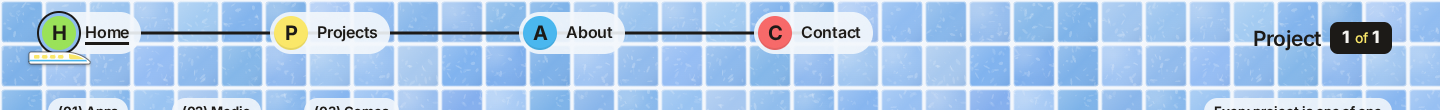
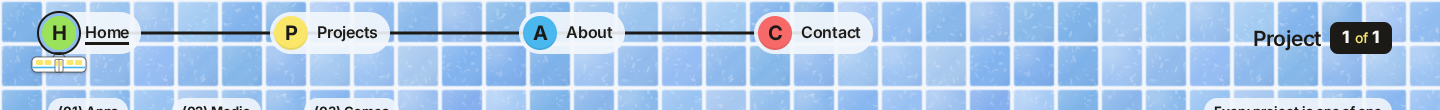
Nav: symmetric tram car (🚋-style), remove direction flip

Changed region(s): [[0.0, 0.4636, 0.0625, 0.6818]]

diff --git a/404.html b/404.html
@@ -21,7 +21,7 @@
   <link rel="preconnect" href="https://fonts.gstatic.com" crossorigin>
   <link href="https://fonts.googleapis.com/css2?family=Inter:wght@400;500;600;700;800&display=swap" rel="stylesheet">
   <link rel="stylesheet" href="/project-1-of-1/css/styles.css">
-  <meta name="build" content="nav-train-v2">
+  <meta name="build" content="nav-train-v3">
   <script>document.documentElement.classList.add("js");</script>
 </head>
 <body>
@@ -38,7 +38,7 @@
         <li><a href="/project-1-of-1/projects.html"><span class="bullet bullet--yellow" aria-hidden="true">P</span><span class="stop"><b>Projects</b><small>3 lots on view</small></span></a></li>
         <li><a href="/project-1-of-1/about.html"><span class="bullet bullet--sky" aria-hidden="true">A</span><span class="stop"><b>About</b><small>The idea</small></span></a></li>
         <li><a href="/project-1-of-1/contact.html"><span class="bullet bullet--coral" aria-hidden="true">C</span><span class="stop"><b>Contact</b><small>Say hello</small></span></a></li>
-        <li class="train-li" aria-hidden="true"><span class="train"><svg viewBox="0 0 66 20" width="66" height="20"><path d="M3 6.5Q3 4 5.5 4H38C50 4 60 9 64 13.6Q64.6 16 62 16H5.5Q3 16 3 13.5Z" fill="#fff" stroke="#1c1a17" stroke-opacity=".55" stroke-width="1"/><path d="M43 6.2C50 6.4 55 9 58 11.2H45.5Q43 11.2 43 9Z" fill="#fbe86a"/><g fill="#fbe86a"><rect x="8" y="7" width="5.5" height="3.6" rx="1.2"/><rect x="16" y="7" width="5.5" height="3.6" rx="1.2"/><rect x="24" y="7" width="5.5" height="3.6" rx="1.2"/><rect x="32" y="7" width="5.5" height="3.6" rx="1.2"/></g><path d="M3.4 12.6H60.5" stroke="#4ab8f0" stroke-width="1.6"/></svg></span></li>
+        <li class="train-li" aria-hidden="true"><span class="train"><svg viewBox="0 0 60 24" width="60" height="24"><path d="M24 7L27.5 2.5H32.5L36 7" fill="none" stroke="#1c1a17" stroke-opacity=".55" stroke-width="1" stroke-linejoin="round"/><path d="M25.5 2.5H34.5" stroke="#1c1a17" stroke-opacity=".55" stroke-width="1" stroke-linecap="round"/><rect x="3" y="7" width="54" height="15" rx="4.5" fill="#fff" stroke="#1c1a17" stroke-opacity=".55" stroke-width="1"/><path d="M3.5 17.5H56.5" stroke="#4ab8f0" stroke-width="1.6"/><g fill="#fbe86a"><rect x="7" y="10" width="7" height="5" rx="1.3"/><rect x="15.5" y="10" width="7" height="5" rx="1.3"/><rect x="37.5" y="10" width="7" height="5" rx="1.3"/><rect x="46" y="10" width="7" height="5" rx="1.3"/></g><rect x="26" y="9.5" width="8" height="12.5" rx="1.2" fill="#fff" stroke="#1c1a17" stroke-opacity=".55" stroke-width="1"/><path d="M30 9.5V22" stroke="#1c1a17" stroke-opacity=".55" stroke-width="1"/><g fill="#fbe86a"><rect x="27" y="10.8" width="2.2" height="5" rx=".7"/><rect x="30.8" y="10.8" width="2.2" height="5" rx=".7"/></g></svg></span></li>
       </ul>
     </nav>
   </header>

diff --git a/projects/europe-tracker.html b/projects/europe-tracker.html
@@ -21,7 +21,7 @@
   <link rel="preconnect" href="https://fonts.gstatic.com" crossorigin>
   <link href="https://fonts.googleapis.com/css2?family=Inter:wght@400;500;600;700;800&display=swap" rel="stylesheet">
   <link rel="stylesheet" href="../css/styles.css">
-  <meta name="build" content="nav-train-v2">
+  <meta name="build" content="nav-train-v3">
   <script>document.documentElement.classList.add("js");</script>
 </head>
 <body>
@@ -38,7 +38,7 @@
         <li><a href="../projects.html" aria-current="page"><span class="bullet bullet--yellow" aria-hidden="true">P</span><span class="stop"><b>Projects</b><small>3 lots on view</small></span></a></li>
         <li><a href="../about.html"><span class="bullet bullet--sky" aria-hidden="true">A</span><span class="stop"><b>About</b><small>The idea</small></span></a></li>
         <li><a href="../contact.html"><span class="bullet bullet--coral" aria-hidden="true">C</span><span class="stop"><b>Contact</b><small>Say hello</small></span></a></li>
-        <li class="train-li" aria-hidden="true"><span class="train"><svg viewBox="0 0 66 20" width="66" height="20"><path d="M3 6.5Q3 4 5.5 4H38C50 4 60 9 64 13.6Q64.6 16 62 16H5.5Q3 16 3 13.5Z" fill="#fff" stroke="#1c1a17" stroke-opacity=".55" stroke-width="1"/><path d="M43 6.2C50 6.4 55 9 58 11.2H45.5Q43 11.2 43 9Z" fill="#fbe86a"/><g fill="#fbe86a"><rect x="8" y="7" width="5.5" height="3.6" rx="1.2"/><rect x="16" y="7" width="5.5" height="3.6" rx="1.2"/><rect x="24" y="7" width="5.5" height="3.6" rx="1.2"/><rect x="32" y="7" width="5.5" height="3.6" rx="1.2"/></g><path d="M3.4 12.6H60.5" stroke="#4ab8f0" stroke-width="1.6"/></svg></span></li>
+        <li class="train-li" aria-hidden="true"><span class="train"><svg viewBox="0 0 60 24" width="60" height="24"><path d="M24 7L27.5 2.5H32.5L36 7" fill="none" stroke="#1c1a17" stroke-opacity=".55" stroke-width="1" stroke-linejoin="round"/><path d="M25.5 2.5H34.5" stroke="#1c1a17" stroke-opacity=".55" stroke-width="1" stroke-linecap="round"/><rect x="3" y="7" width="54" height="15" rx="4.5" fill="#fff" stroke="#1c1a17" stroke-opacity=".55" stroke-width="1"/><path d="M3.5 17.5H56.5" stroke="#4ab8f0" stroke-width="1.6"/><g fill="#fbe86a"><rect x="7" y="10" width="7" height="5" rx="1.3"/><rect x="15.5" y="10" width="7" height="5" rx="1.3"/><rect x="37.5" y="10" width="7" height="5" rx="1.3"/><rect x="46" y="10" width="7" height="5" rx="1.3"/></g><rect x="26" y="9.5" width="8" height="12.5" rx="1.2" fill="#fff" stroke="#1c1a17" stroke-opacity=".55" stroke-width="1"/><path d="M30 9.5V22" stroke="#1c1a17" stroke-opacity=".55" stroke-width="1"/><g fill="#fbe86a"><rect x="27" y="10.8" width="2.2" height="5" rx=".7"/><rect x="30.8" y="10.8" width="2.2" height="5" rx=".7"/></g></svg></span></li>
       </ul>
     </nav>
   </header>

diff --git a/projects/morning-news.html b/projects/morning-news.html
@@ -21,7 +21,7 @@
   <link rel="preconnect" href="https://fonts.gstatic.com" crossorigin>
   <link href="https://fonts.googleapis.com/css2?family=Inter:wght@400;500;600;700;800&display=swap" rel="stylesheet">
   <link rel="stylesheet" href="../css/styles.css">
-  <meta name="build" content="nav-train-v2">
+  <meta name="build" content="nav-train-v3">
   <script>document.documentElement.classList.add("js");</script>
 </head>
 <body>
@@ -38,7 +38,7 @@
         <li><a href="../projects.html" aria-current="page"><span class="bullet bullet--yellow" aria-hidden="true">P</span><span class="stop"><b>Projects</b><small>3 lots on view</small></span></a></li>
         <li><a href="../about.html"><span class="bullet bullet--sky" aria-hidden="true">A</span><span class="stop"><b>About</b><small>The idea</small></span></a></li>
         <li><a href="../contact.html"><span class="bullet bullet--coral" aria-hidden="true">C</span><span class="stop"><b>Contact</b><small>Say hello</small></span></a></li>
-        <li class="train-li" aria-hidden="true"><span class="train"><svg viewBox="0 0 66 20" width="66" height="20"><path d="M3 6.5Q3 4 5.5 4H38C50 4 60 9 64 13.6Q64.6 16 62 16H5.5Q3 16 3 13.5Z" fill="#fff" stroke="#1c1a17" stroke-opacity=".55" stroke-width="1"/><path d="M43 6.2C50 6.4 55 9 58 11.2H45.5Q43 11.2 43 9Z" fill="#fbe86a"/><g fill="#fbe86a"><rect x="8" y="7" width="5.5" height="3.6" rx="1.2"/><rect x="16" y="7" width="5.5" height="3.6" rx="1.2"/><rect x="24" y="7" width="5.5" height="3.6" rx="1.2"/><rect x="32" y="7" width="5.5" height="3.6" rx="1.2"/></g><path d="M3.4 12.6H60.5" stroke="#4ab8f0" stroke-width="1.6"/></svg></span></li>
+        <li class="train-li" aria-hidden="true"><span class="train"><svg viewBox="0 0 60 24" width="60" height="24"><path d="M24 7L27.5 2.5H32.5L36 7" fill="none" stroke="#1c1a17" stroke-opacity=".55" stroke-width="1" stroke-linejoin="round"/><path d="M25.5 2.5H34.5" stroke="#1c1a17" stroke-opacity=".55" stroke-width="1" stroke-linecap="round"/><rect x="3" y="7" width="54" height="15" rx="4.5" fill="#fff" stroke="#1c1a17" stroke-opacity=".55" stroke-width="1"/><path d="M3.5 17.5H56.5" stroke="#4ab8f0" stroke-width="1.6"/><g fill="#fbe86a"><rect x="7" y="10" width="7" height="5" rx="1.3"/><rect x="15.5" y="10" width="7" height="5" rx="1.3"/><rect x="37.5" y="10" width="7" height="5" rx="1.3"/><rect x="46" y="10" width="7" height="5" rx="1.3"/></g><rect x="26" y="9.5" width="8" height="12.5" rx="1.2" fill="#fff" stroke="#1c1a17" stroke-opacity=".55" stroke-width="1"/><path d="M30 9.5V22" stroke="#1c1a17" stroke-opacity=".55" stroke-width="1"/><g fill="#fbe86a"><rect x="27" y="10.8" width="2.2" height="5" rx=".7"/><rect x="30.8" y="10.8" width="2.2" height="5" rx=".7"/></g></svg></span></li>
       </ul>
     </nav>
   </header>

diff --git a/projects/pixel-game.html b/projects/pixel-game.html
@@ -21,7 +21,7 @@
   <link rel="preconnect" href="https://fonts.gstatic.com" crossorigin>
   <link href="https://fonts.googleapis.com/css2?family=Inter:wght@400;500;600;700;800&display=swap" rel="stylesheet">
   <link rel="stylesheet" href="../css/styles.css">
-  <meta name="build" content="nav-train-v2">
+  <meta name="build" content="nav-train-v3">
   <script>document.documentElement.classList.add("js");</script>
 </head>
 <body>
@@ -38,7 +38,7 @@
         <li><a href="../projects.html" aria-current="page"><span class="bullet bullet--yellow" aria-hidden="true">P</span><span class="stop"><b>Projects</b><small>3 lots on view</small></span></a></li>
         <li><a href="../about.html"><span class="bullet bullet--sky" aria-hidden="true">A</span><span class="stop"><b>About</b><small>The idea</small></span></a></li>
         <li><a href="../contact.html"><span class="bullet bullet--coral" aria-hidden="true">C</span><span class="stop"><b>Contact</b><small>Say hello</small></span></a></li>
-        <li class="train-li" aria-hidden="true"><span class="train"><svg viewBox="0 0 66 20" width="66" height="20"><path d="M3 6.5Q3 4 5.5 4H38C50 4 60 9 64 13.6Q64.6 16 62 16H5.5Q3 16 3 13.5Z" fill="#fff" stroke="#1c1a17" stroke-opacity=".55" stroke-width="1"/><path d="M43 6.2C50 6.4 55 9 58 11.2H45.5Q43 11.2 43 9Z" fill="#fbe86a"/><g fill="#fbe86a"><rect x="8" y="7" width="5.5" height="3.6" rx="1.2"/><rect x="16" y="7" width="5.5" height="3.6" rx="1.2"/><rect x="24" y="7" width="5.5" height="3.6" rx="1.2"/><rect x="32" y="7" width="5.5" height="3.6" rx="1.2"/></g><path d="M3.4 12.6H60.5" stroke="#4ab8f0" stroke-width="1.6"/></svg></span></li>
+        <li class="train-li" aria-hidden="true"><span class="train"><svg viewBox="0 0 60 24" width="60" height="24"><path d="M24 7L27.5 2.5H32.5L36 7" fill="none" stroke="#1c1a17" stroke-opacity=".55" stroke-width="1" stroke-linejoin="round"/><path d="M25.5 2.5H34.5" stroke="#1c1a17" stroke-opacity=".55" stroke-width="1" stroke-linecap="round"/><rect x="3" y="7" width="54" height="15" rx="4.5" fill="#fff" stroke="#1c1a17" stroke-opacity=".55" stroke-width="1"/><path d="M3.5 17.5H56.5" stroke="#4ab8f0" stroke-width="1.6"/><g fill="#fbe86a"><rect x="7" y="10" width="7" height="5" rx="1.3"/><rect x="15.5" y="10" width="7" height="5" rx="1.3"/><rect x="37.5" y="10" width="7" height="5" rx="1.3"/><rect x="46" y="10" width="7" height="5" rx="1.3"/></g><rect x="26" y="9.5" width="8" height="12.5" rx="1.2" fill="#fff" stroke="#1c1a17" stroke-opacity=".55" stroke-width="1"/><path d="M30 9.5V22" stroke="#1c1a17" stroke-opacity=".55" stroke-width="1"/><g fill="#fbe86a"><rect x="27" y="10.8" width="2.2" height="5" rx=".7"/><rect x="30.8" y="10.8" width="2.2" height="5" rx=".7"/></g></svg></span></li>
       </ul>
     </nav>
   </header>

diff --git a/about.html b/about.html
@@ -21,7 +21,7 @@
   <link rel="preconnect" href="https://fonts.gstatic.com" crossorigin>
   <link href="https://fonts.googleapis.com/css2?family=Inter:wght@400;500;600;700;800&display=swap" rel="stylesheet">
   <link rel="stylesheet" href="css/styles.css">
-  <meta name="build" content="nav-train-v2">
+  <meta name="build" content="nav-train-v3">
   <script>document.documentElement.classList.add("js");</script>
 </head>
 <body>
@@ -38,7 +38,7 @@
         <li><a href="projects.html"><span class="bullet bullet--yellow" aria-hidden="true">P</span><span class="stop"><b>Projects</b><small>3 lots on view</small></span></a></li>
         <li><a href="about.html" aria-current="page"><span class="bullet bullet--sky" aria-hidden="true">A</span><span class="stop"><b>About</b><small>The idea</small></span></a></li>
         <li><a href="contact.html"><span class="bullet bullet--coral" aria-hidden="true">C</span><span class="stop"><b>Contact</b><small>Say hello</small></span></a></li>
-        <li class="train-li" aria-hidden="true"><span class="train"><svg viewBox="0 0 66 20" width="66" height="20"><path d="M3 6.5Q3 4 5.5 4H38C50 4 60 9 64 13.6Q64.6 16 62 16H5.5Q3 16 3 13.5Z" fill="#fff" stroke="#1c1a17" stroke-opacity=".55" stroke-width="1"/><path d="M43 6.2C50 6.4 55 9 58 11.2H45.5Q43 11.2 43 9Z" fill="#fbe86a"/><g fill="#fbe86a"><rect x="8" y="7" width="5.5" height="3.6" rx="1.2"/><rect x="16" y="7" width="5.5" height="3.6" rx="1.2"/><rect x="24" y="7" width="5.5" height="3.6" rx="1.2"/><rect x="32" y="7" width="5.5" height="3.6" rx="1.2"/></g><path d="M3.4 12.6H60.5" stroke="#4ab8f0" stroke-width="1.6"/></svg></span></li>
+        <li class="train-li" aria-hidden="true"><span class="train"><svg viewBox="0 0 60 24" width="60" height="24"><path d="M24 7L27.5 2.5H32.5L36 7" fill="none" stroke="#1c1a17" stroke-opacity=".55" stroke-width="1" stroke-linejoin="round"/><path d="M25.5 2.5H34.5" stroke="#1c1a17" stroke-opacity=".55" stroke-width="1" stroke-linecap="round"/><rect x="3" y="7" width="54" height="15" rx="4.5" fill="#fff" stroke="#1c1a17" stroke-opacity=".55" stroke-width="1"/><path d="M3.5 17.5H56.5" stroke="#4ab8f0" stroke-width="1.6"/><g fill="#fbe86a"><rect x="7" y="10" width="7" height="5" rx="1.3"/><rect x="15.5" y="10" width="7" height="5" rx="1.3"/><rect x="37.5" y="10" width="7" height="5" rx="1.3"/><rect x="46" y="10" width="7" height="5" rx="1.3"/></g><rect x="26" y="9.5" width="8" height="12.5" rx="1.2" fill="#fff" stroke="#1c1a17" stroke-opacity=".55" stroke-width="1"/><path d="M30 9.5V22" stroke="#1c1a17" stroke-opacity=".55" stroke-width="1"/><g fill="#fbe86a"><rect x="27" y="10.8" width="2.2" height="5" rx=".7"/><rect x="30.8" y="10.8" width="2.2" height="5" rx=".7"/></g></svg></span></li>
       </ul>
     </nav>
   </header>

diff --git a/contact.html b/contact.html
@@ -21,7 +21,7 @@
   <link rel="preconnect" href="https://fonts.gstatic.com" crossorigin>
   <link href="https://fonts.googleapis.com/css2?family=Inter:wght@400;500;600;700;800&display=swap" rel="stylesheet">
   <link rel="stylesheet" href="css/styles.css">
-  <meta name="build" content="nav-train-v2">
+  <meta name="build" content="nav-train-v3">
   <script>document.documentElement.classList.add("js");</script>
 </head>
 <body>
@@ -38,7 +38,7 @@
         <li><a href="projects.html"><span class="bullet bullet--yellow" aria-hidden="true">P</span><span class="stop"><b>Projects</b><small>3 lots on view</small></span></a></li>
         <li><a href="about.html"><span class="bullet bullet--sky" aria-hidden="true">A</span><span class="stop"><b>About</b><small>The idea</small></span></a></li>
         <li><a href="contact.html" aria-current="page"><span class="bullet bullet--coral" aria-hidden="true">C</span><span class="stop"><b>Contact</b><small>Say hello</small></span></a></li>
-        <li class="train-li" aria-hidden="true"><span class="train"><svg viewBox="0 0 66 20" width="66" height="20"><path d="M3 6.5Q3 4 5.5 4H38C50 4 60 9 64 13.6Q64.6 16 62 16H5.5Q3 16 3 13.5Z" fill="#fff" stroke="#1c1a17" stroke-opacity=".55" stroke-width="1"/><path d="M43 6.2C50 6.4 55 9 58 11.2H45.5Q43 11.2 43 9Z" fill="#fbe86a"/><g fill="#fbe86a"><rect x="8" y="7" width="5.5" height="3.6" rx="1.2"/><rect x="16" y="7" width="5.5" height="3.6" rx="1.2"/><rect x="24" y="7" width="5.5" height="3.6" rx="1.2"/><rect x="32" y="7" width="5.5" height="3.6" rx="1.2"/></g><path d="M3.4 12.6H60.5" stroke="#4ab8f0" stroke-width="1.6"/></svg></span></li>
+        <li class="train-li" aria-hidden="true"><span class="train"><svg viewBox="0 0 60 24" width="60" height="24"><path d="M24 7L27.5 2.5H32.5L36 7" fill="none" stroke="#1c1a17" stroke-opacity=".55" stroke-width="1" stroke-linejoin="round"/><path d="M25.5 2.5H34.5" stroke="#1c1a17" stroke-opacity=".55" stroke-width="1" stroke-linecap="round"/><rect x="3" y="7" width="54" height="15" rx="4.5" fill="#fff" stroke="#1c1a17" stroke-opacity=".55" stroke-width="1"/><path d="M3.5 17.5H56.5" stroke="#4ab8f0" stroke-width="1.6"/><g fill="#fbe86a"><rect x="7" y="10" width="7" height="5" rx="1.3"/><rect x="15.5" y="10" width="7" height="5" rx="1.3"/><rect x="37.5" y="10" width="7" height="5" rx="1.3"/><rect x="46" y="10" width="7" height="5" rx="1.3"/></g><rect x="26" y="9.5" width="8" height="12.5" rx="1.2" fill="#fff" stroke="#1c1a17" stroke-opacity=".55" stroke-width="1"/><path d="M30 9.5V22" stroke="#1c1a17" stroke-opacity=".55" stroke-width="1"/><g fill="#fbe86a"><rect x="27" y="10.8" width="2.2" height="5" rx=".7"/><rect x="30.8" y="10.8" width="2.2" height="5" rx=".7"/></g></svg></span></li>
       </ul>
     </nav>
   </header>

diff --git a/projects.html b/projects.html
@@ -21,7 +21,7 @@
   <link rel="preconnect" href="https://fonts.gstatic.com" crossorigin>
   <link href="https://fonts.googleapis.com/css2?family=Inter:wght@400;500;600;700;800&display=swap" rel="stylesheet">
   <link rel="stylesheet" href="css/styles.css">
-  <meta name="build" content="nav-train-v2">
+  <meta name="build" content="nav-train-v3">
   <script>document.documentElement.classList.add("js");</script>
 </head>
 <body>
@@ -38,7 +38,7 @@
         <li><a href="projects.html" aria-current="page"><span class="bullet bullet--yellow" aria-hidden="true">P</span><span class="stop"><b>Projects</b><small>3 lots on view</small></span></a></li>
         <li><a href="about.html"><span class="bullet bullet--sky" aria-hidden="true">A</span><span class="stop"><b>About</b><small>The idea</small></span></a></li>
         <li><a href="contact.html"><span class="bullet bullet--coral" aria-hidden="true">C</span><span class="stop"><b>Contact</b><small>Say hello</small></span></a></li>
-        <li class="train-li" aria-hidden="true"><span class="train"><svg viewBox="0 0 66 20" width="66" height="20"><path d="M3 6.5Q3 4 5.5 4H38C50 4 60 9 64 13.6Q64.6 16 62 16H5.5Q3 16 3 13.5Z" fill="#fff" stroke="#1c1a17" stroke-opacity=".55" stroke-width="1"/><path d="M43 6.2C50 6.4 55 9 58 11.2H45.5Q43 11.2 43 9Z" fill="#fbe86a"/><g fill="#fbe86a"><rect x="8" y="7" width="5.5" height="3.6" rx="1.2"/><rect x="16" y="7" width="5.5" height="3.6" rx="1.2"/><rect x="24" y="7" width="5.5" height="3.6" rx="1.2"/><rect x="32" y="7" width="5.5" height="3.6" rx="1.2"/></g><path d="M3.4 12.6H60.5" stroke="#4ab8f0" stroke-width="1.6"/></svg></span></li>
+        <li class="train-li" aria-hidden="true"><span class="train"><svg viewBox="0 0 60 24" width="60" height="24"><path d="M24 7L27.5 2.5H32.5L36 7" fill="none" stroke="#1c1a17" stroke-opacity=".55" stroke-width="1" stroke-linejoin="round"/><path d="M25.5 2.5H34.5" stroke="#1c1a17" stroke-opacity=".55" stroke-width="1" stroke-linecap="round"/><rect x="3" y="7" width="54" height="15" rx="4.5" fill="#fff" stroke="#1c1a17" stroke-opacity=".55" stroke-width="1"/><path d="M3.5 17.5H56.5" stroke="#4ab8f0" stroke-width="1.6"/><g fill="#fbe86a"><rect x="7" y="10" width="7" height="5" rx="1.3"/><rect x="15.5" y="10" width="7" height="5" rx="1.3"/><rect x="37.5" y="10" width="7" height="5" rx="1.3"/><rect x="46" y="10" width="7" height="5" rx="1.3"/></g><rect x="26" y="9.5" width="8" height="12.5" rx="1.2" fill="#fff" stroke="#1c1a17" stroke-opacity=".55" stroke-width="1"/><path d="M30 9.5V22" stroke="#1c1a17" stroke-opacity=".55" stroke-width="1"/><g fill="#fbe86a"><rect x="27" y="10.8" width="2.2" height="5" rx=".7"/><rect x="30.8" y="10.8" width="2.2" height="5" rx=".7"/></g></svg></span></li>
       </ul>
     </nav>
   </header>

diff --git a/index.html b/index.html
@@ -21,7 +21,7 @@
   <link rel="preconnect" href="https://fonts.gstatic.com" crossorigin>
   <link href="https://fonts.googleapis.com/css2?family=Inter:wght@400;500;600;700;800&display=swap" rel="stylesheet">
   <link rel="stylesheet" href="css/styles.css">
-  <meta name="build" content="nav-train-v2">
+  <meta name="build" content="nav-train-v3">
   <script>document.documentElement.classList.add("js");</script>
 </head>
 <body>
@@ -38,7 +38,7 @@
         <li><a href="projects.html"><span class="bullet bullet--yellow" aria-hidden="true">P</span><span class="stop"><b>Projects</b><small>3 lots on view</small></span></a></li>
         <li><a href="about.html"><span class="bullet bullet--sky" aria-hidden="true">A</span><span class="stop"><b>About</b><small>The idea</small></span></a></li>
         <li><a href="contact.html"><span class="bullet bullet--coral" aria-hidden="true">C</span><span class="stop"><b>Contact</b><small>Say hello</small></span></a></li>
-        <li class="train-li" aria-hidden="true"><span class="train"><svg viewBox="0 0 66 20" width="66" height="20"><path d="M3 6.5Q3 4 5.5 4H38C50 4 60 9 64 13.6Q64.6 16 62 16H5.5Q3 16 3 13.5Z" fill="#fff" stroke="#1c1a17" stroke-opacity=".55" stroke-width="1"/><path d="M43 6.2C50 6.4 55 9 58 11.2H45.5Q43 11.2 43 9Z" fill="#fbe86a"/><g fill="#fbe86a"><rect x="8" y="7" width="5.5" height="3.6" rx="1.2"/><rect x="16" y="7" width="5.5" height="3.6" rx="1.2"/><rect x="24" y="7" width="5.5" height="3.6" rx="1.2"/><rect x="32" y="7" width="5.5" height="3.6" rx="1.2"/></g><path d="M3.4 12.6H60.5" stroke="#4ab8f0" stroke-width="1.6"/></svg></span></li>
+        <li class="train-li" aria-hidden="true"><span class="train"><svg viewBox="0 0 60 24" width="60" height="24"><path d="M24 7L27.5 2.5H32.5L36 7" fill="none" stroke="#1c1a17" stroke-opacity=".55" stroke-width="1" stroke-linejoin="round"/><path d="M25.5 2.5H34.5" stroke="#1c1a17" stroke-opacity=".55" stroke-width="1" stroke-linecap="round"/><rect x="3" y="7" width="54" height="15" rx="4.5" fill="#fff" stroke="#1c1a17" stroke-opacity=".55" stroke-width="1"/><path d="M3.5 17.5H56.5" stroke="#4ab8f0" stroke-width="1.6"/><g fill="#fbe86a"><rect x="7" y="10" width="7" height="5" rx="1.3"/><rect x="15.5" y="10" width="7" height="5" rx="1.3"/><rect x="37.5" y="10" width="7" height="5" rx="1.3"/><rect x="46" y="10" width="7" height="5" rx="1.3"/></g><rect x="26" y="9.5" width="8" height="12.5" rx="1.2" fill="#fff" stroke="#1c1a17" stroke-opacity=".55" stroke-width="1"/><path d="M30 9.5V22" stroke="#1c1a17" stroke-opacity=".55" stroke-width="1"/><g fill="#fbe86a"><rect x="27" y="10.8" width="2.2" height="5" rx=".7"/><rect x="30.8" y="10.8" width="2.2" height="5" rx=".7"/></g></svg></span></li>
       </ul>
     </nav>
   </header>

diff --git a/js/nav.js b/js/nav.js
@@ -10,8 +10,7 @@
     var yb = mobile.matches ? b.top + b.height / 2 - r.top + 36 : b.bottom - r.top + 8;
     return { x: x, y: yb, rot: 0 };                                          // parked under the current station
   }
-  function place(a) { var s = spot(a); train.style.setProperty('--tx', s.x + 'px'); train.style.setProperty('--ty', s.y + 'px'); train.style.setProperty('--flip', flip); }
-  var flip = sessionStorage.getItem('trainFlip') || '1';
+  function place(a) { var s = spot(a); train.style.setProperty('--tx', s.x + 'px'); train.style.setProperty('--ty', s.y + 'px'); }
   var current = route.querySelector('a[aria-current="page"]') || route.querySelector('a');
   place(current); train.classList.add('is-placed');
   window.addEventListener('resize', function () { if (!train.classList.contains('is-moving')) place(current); });
@@ -23,8 +22,6 @@
     if (reduce) return;                       // instant: normal navigation
     e.preventDefault();
     var go = function () { location.href = a.href; };
-    var from = spot(current).x, to = spot(a).x;
-    flip = to < from ? '-1' : '1'; try { sessionStorage.setItem('trainFlip', flip); } catch (_) {}
     train.classList.add('is-moving'); place(a);
     var done = false, fin = function () { if (!done) { done = true; go(); } };
     train.addEventListener('transitionend', fin, { once: true }); setTimeout(fin, 950);

diff --git a/css/styles.css b/css/styles.css
@@ -475,8 +475,8 @@ a.contact-card:hover { transform: translateY(-5px); box-shadow: 0 30px 60px -30p
   .route::before { left: 18px; right: 18px; top: calc(50% - 5px); }
 }
 .train-li { position: absolute !important; left: 0; top: 0; z-index: 3 !important; pointer-events: none; list-style: none; }
-.train { position: absolute; left: 0; top: 0; display: block; width: 66px; height: 20px; margin: -10px 0 0 -33px;
-  transform: translate(var(--tx, 0px), var(--ty, 0px)) scaleX(var(--flip, 1)); opacity: 0; filter: drop-shadow(0 1.5px 1.5px rgba(28,26,23,.35)); }
+.train { position: absolute; left: 0; top: 0; display: block; width: 60px; height: 24px; margin: -8px 0 0 -30px;
+  transform: translate(var(--tx, 0px), var(--ty, 0px)); opacity: 0; filter: drop-shadow(0 1.5px 1.5px rgba(28,26,23,.35)); }
 .train.is-placed { opacity: 1; }
 .train.is-moving { transition: transform .8s cubic-bezier(.65,0,.35,1); }
 .train svg { display: block; }
